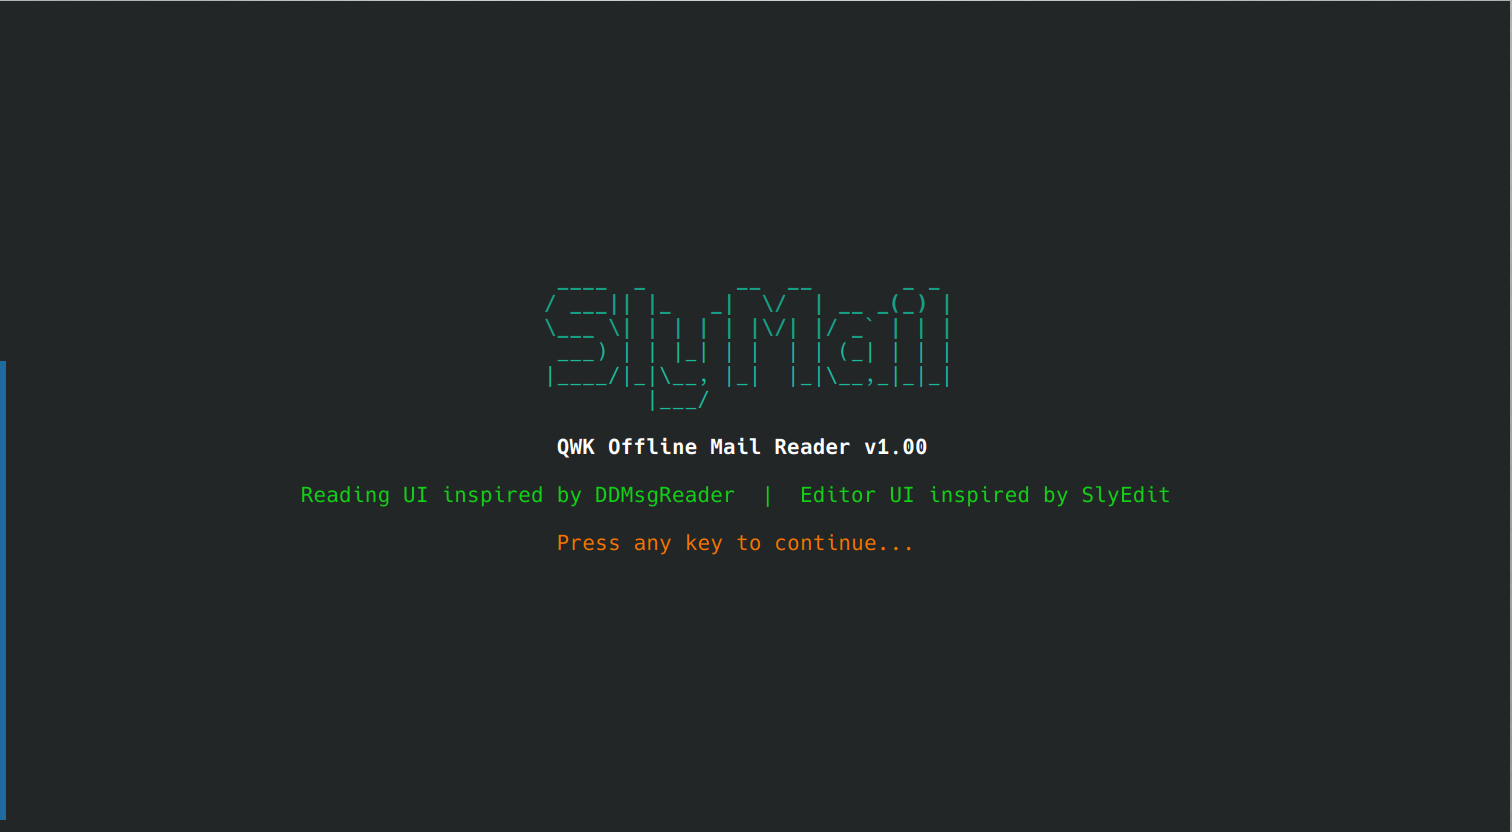
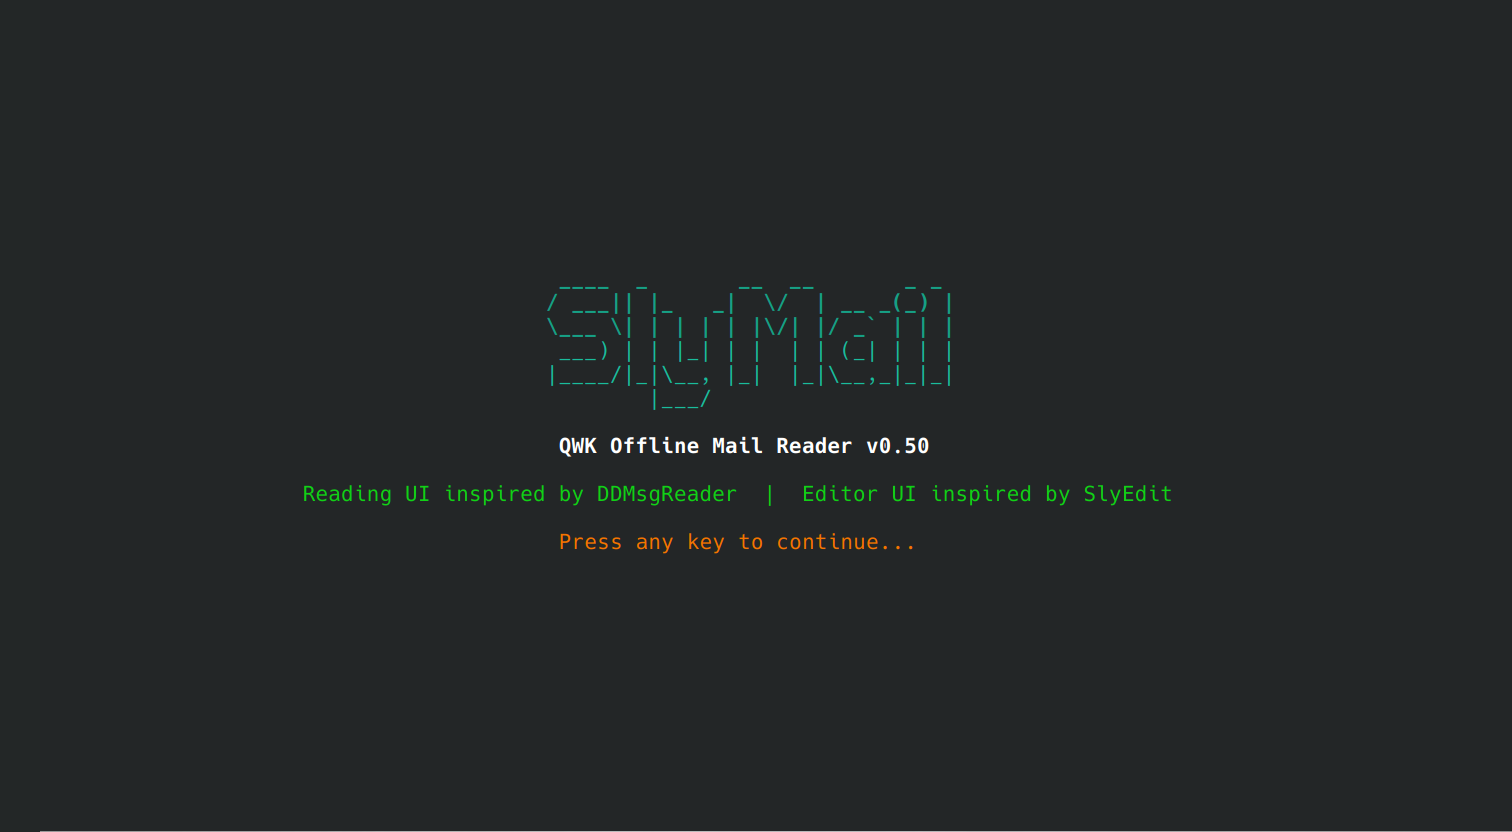
Fix to use the version from program_info.h in main.cpp

diff --git a/src/main.cpp b/src/main.cpp
@@ -13,6 +13,7 @@
 #include "msg_reader.h"
 #include "msg_editor.h"
 #include "settings_dialog.h"
+#include "program_info.h"
 
 #include <ctime>
 #include <optional>
@@ -20,9 +21,6 @@
 using std::string;
 using std::vector;
 using std::optional;
-
-// Application version
-constexpr const char* SLYMAIL_VERSION = "1.00";
 
 // Show the splash/title screen
 void showSplashScreen()
@@ -50,7 +48,7 @@ void showSplashScreen()
         tAttr(TC_CYAN, TC_BLACK, false));
 
     printCentered(centerY + 7,
-        "QWK Offline Mail Reader v" + std::string(SLYMAIL_VERSION),
+        "QWK Offline Mail Reader v" + std::string(PROGRAM_VERSION),
         tAttr(TC_WHITE, TC_BLACK, true));
 
     printCentered(centerY + 9,
